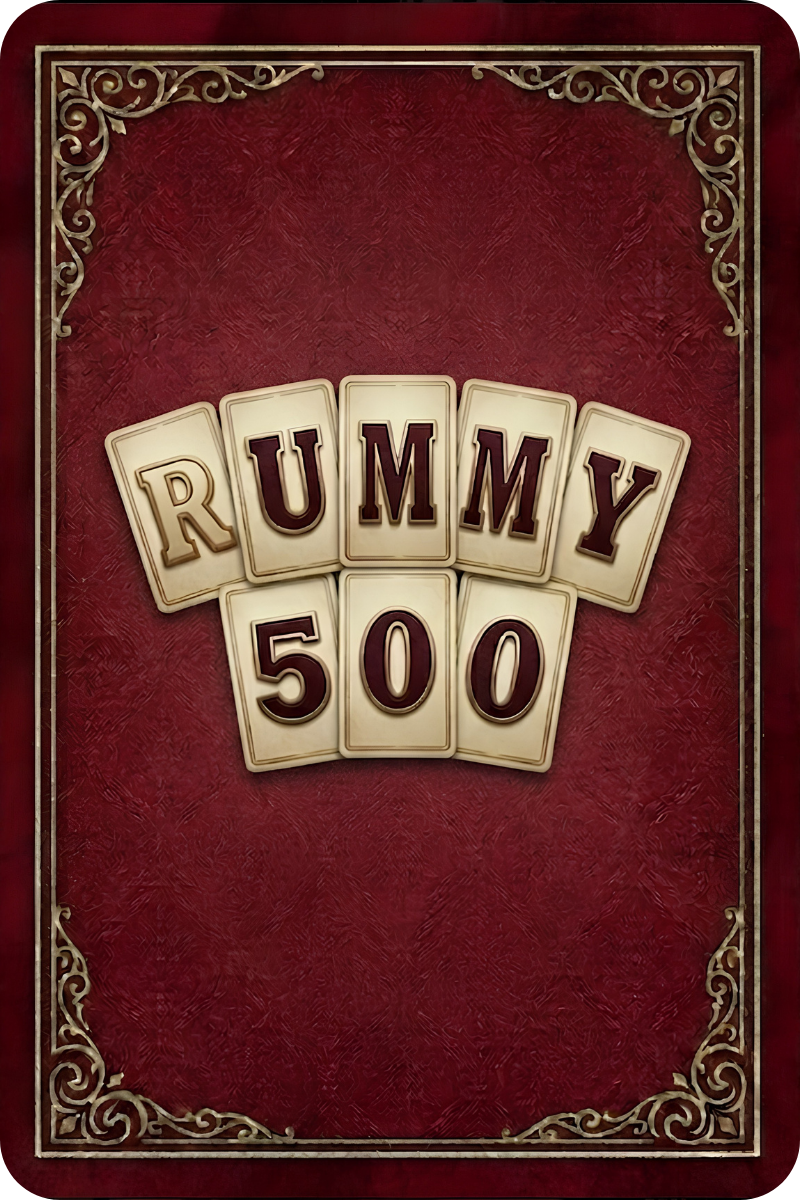
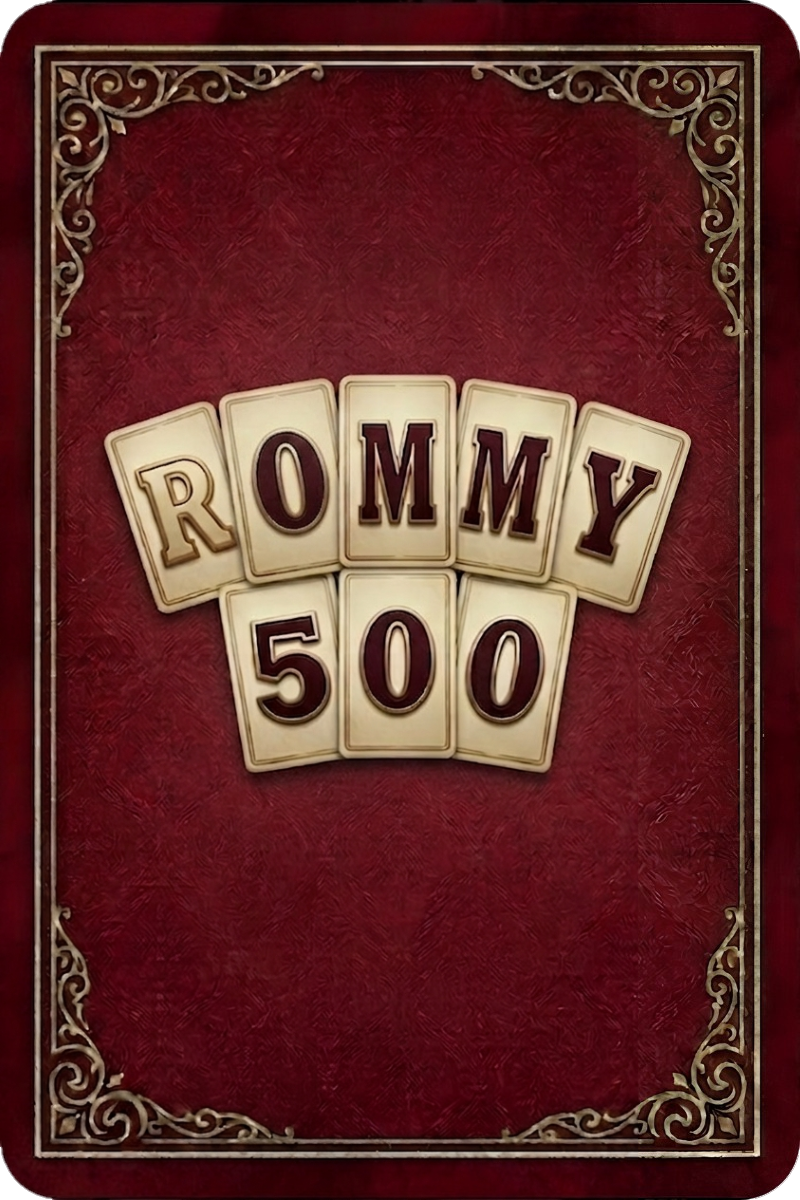
Commit

diff --git a/logica_interfaz/jugador_interfaz.py b/logica_interfaz/jugador_interfaz.py
@@ -30,7 +30,21 @@ class Jugador_interfaz(Jugador):
         if len(nombre_corto) > 12:
             nombre_corto = nombre_corto[:10] + "..."
             
-        usuario = PanelJugadorVisual(self.un_juego, nombre_corto, self.x, self.y, self.nro_jugador)
+        offset_x = 0
+        offset_y = 0
+        
+        if hasattr(self, 'direccion'):
+            if self.direccion == "arriba":
+                offset_y = -40
+                offset_x = 70
+            elif self.direccion == "izquierda":
+                offset_x = 20
+                offset_y = -170
+            elif self.direccion == "derecha":
+                offset_x = 40
+                offset_y = -170
+
+        usuario = PanelJugadorVisual(self.un_juego, nombre_corto, self.x + offset_x, self.y + offset_y, self.nro_jugador)
         
         if es_turno:
             usuario.color_borde_actual = constantes.NARANJA

diff --git a/redes_juego/core/_cliente.py b/redes_juego/core/_cliente.py
@@ -355,12 +355,11 @@ class ClienteMixin:
             self.mesa_juego.elementos_mesa["jugador_mano"] = mensaje.get("jugador_mano")
             self.mesa_juego.elementos_mesa["cantidad_manos_jugadores"] = mensaje.get("cantidad_manos_jugadores")
             self.mesa_juego.elementos_mesa["turno_robar"] = mensaje.get("turno_robar")
-            self.mesa_juego.determinar_turno()
-            self.mesa_juego.actualizar_indicador_turno()
-            self.mesa_juego.actualizar_elementos_jugadores()
             # Si no es el turno del jugador y no descartó recientemente, crear botones
             if self.mesa_juego:
                 self.mesa_juego.determinar_turno()
+                self.mesa_juego.actualizar_indicador_turno()
+                self.mesa_juego.actualizar_elementos_jugadores()
                 if not self.mesa_juego.tu_turno and not self.descarto_recientemente:
                     # Asegurarse de que los botones estén limpios antes de crear nuevos
                     self.mesa_juego.limpiar_botones(self.mesa_juego.mesa)